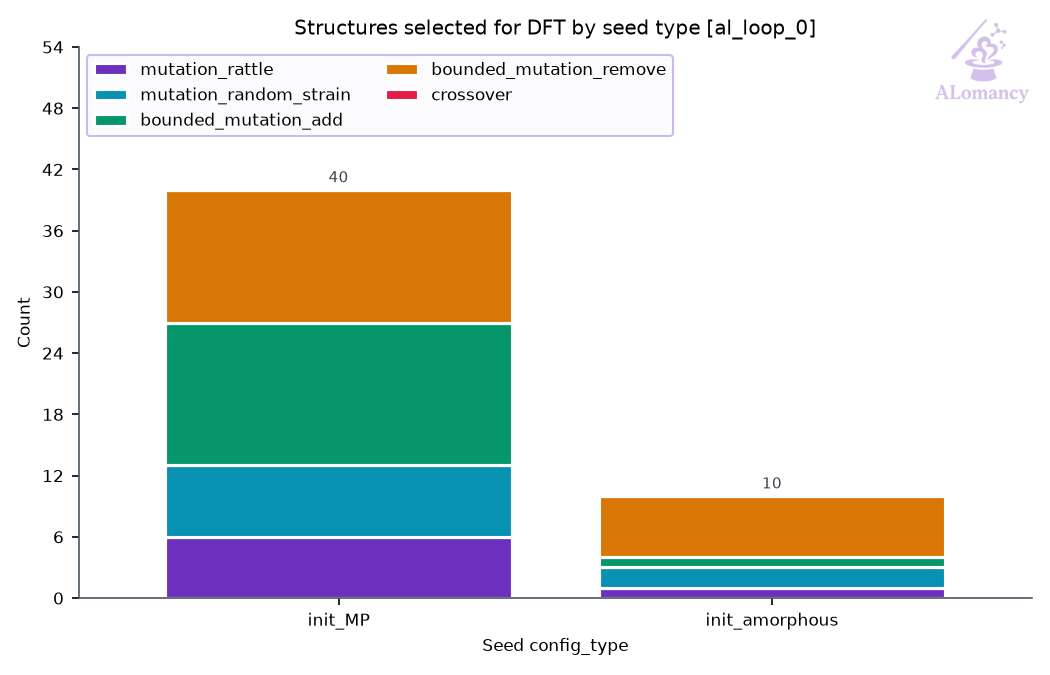
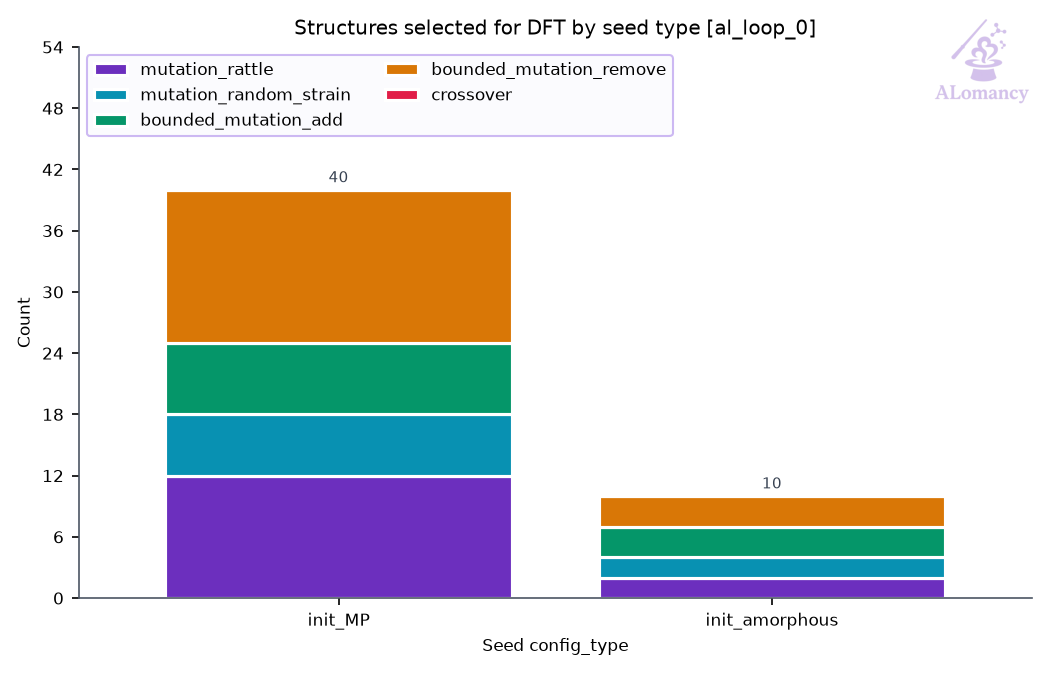
update viper_omat_ezga_committee

Changed region(s): [[0.1524, 0.5911, 0.4876, 0.8089], [0.5486, 0.7778, 0.9143, 0.9022], [0.1524, 0.4667, 0.4876, 0.5289]]

diff --git a/alomancy/viper_omat_ezga_committee/report/report.md b/alomancy/viper_omat_ezga_committee/report/report.md
@@ -1,32 +1,33 @@
 # ALomancy report: al_loop_0
 
-Workflow `committee_uncertainty` · trainer `mace` · generator `ezga` · evaluator `qe` · generated 2026-11-14T09:45:32
+Workflow `committee_uncertainty` · trainer `mace` · generator `ezga` · evaluator `qe` · generated 2026-11-17T08:26:58
 
-**Status:** 💡 2 infos · 3 warning(s) logged
+**Status:** ✖ 2 errors · 💡 1 info · 5 warning(s) logged
 
 ## Headline
 
 | | previous | loop 0 | change |
 |---|---:|---:|---:|
-| Best model test force MAE (eV/Å) | n/a | 0.193 |  |
-| Best model test energy MAE (meV/atom) | n/a | 40.4 |  |
-| Training structures | n/a | 456 |  |
-| Test structures | n/a | 14 |  |
-| New structures this loop | n/a | 48 |  |
-| Warnings / errors logged | n/a | 3 |  |
+| Best model test force MAE (eV/Å) | n/a | 0.0683 |  |
+| Best model test energy MAE (meV/atom) | n/a | 32 |  |
+| Training structures | n/a | 436 |  |
+| Test structures | n/a | 27 |  |
+| New structures this loop | n/a | 47 |  |
+| Warnings / errors logged | n/a | 5 |  |
 
-Best model: fit_1 of 3 (chosen on the `valid` split).
+Best model: fit_2 of 3 (chosen on the `valid` split).
 
 ## Issues & suggestions
 
-- 💡 **queue_dominated**: high_accuracy_evaluation spent 78% of its time (5.6 h) queued. Raise max_num_of_concurrent_jobs in the HPC profile or use a less busy partition.
-- 💡 **overfitting**: The best model's test force MAE (0.193 eV/Å) is 2.1x its training MAE (0.0904 eV/Å). The test set covers configurations training doesn't: keep adding data, or raise general.dataset_kwargs.valid_fraction to select models on held-out data.
+- ✖ **remote_jobs_failed**: 3/57 remote jobs (5%) failed (3) or died (0). Check the job logs (results/alomancy.log has each failure's traceback); jobs killed by the scheduler usually need a longer max_time for that phase, or a partition with more memory.
+- ✖ **dft_partial_failure**: 3/50 structures sent to DFT (6%) came back without a result. Check the DFT output in results/<loop>/high_accuracy_evaluation; raise high_accuracy_evaluation.max_time / max_go_time if jobs timed out.
+- 💡 **queue_dominated**: training_plots spent 99% of its time (12.3 h) queued. Raise max_num_of_concurrent_jobs in the HPC profile or use a less busy partition.
 
 ## Trends
 
 | loop | test F-MAE (eV/Å) | train | new | DFT returned | GO converged | new redundant | warnings |
 |---:|---:|---:|---:|---:|---:|---:|---:|
-| 0 | 0.193 | 456 | 48 | 48/50 | 100% | 0 | 3 |
+| 0 | 0.0683 | 436 | 47 | 47/50 | 100% | 0 | 5 |
 
 ![Best-model MAE per loop](plots/training_al_loop_mae_plot.png)
 
@@ -36,7 +37,7 @@ Best model: fit_1 of 3 (chosen on the `valid` split).
 
 ![Best model parity](plots/best_model_parity.png)
 
-Median relative error: train energy 1.9%, force 7.1%; test energy 0.3%.
+Median relative error: train energy 1.0%, force 6.6%; test energy 0.3%, force 16.6%.
 Energies with |formation energy| < 0.05 eV/atom and atoms with |F| < 0.1 eV/Å are left out; force error is |ΔF|/|F| per atom.
 
 ![Best model percentage error](plots/best_model_percent_error.png)
@@ -46,18 +47,18 @@ Energies with |formation energy| < 0.05 eV/atom and atoms with |F| < 0.1 eV/Å a
 | config_type | Train | Test | Excluded: quality filter | total |
 |---|---:|---:|---:|---:|
 | IsolatedAtom | 1 | 0 | 0 | 1 |
-| high_sd | 86 | 10 | 0 | 96 |
+| high_sd | 77 | 9 | 8 | 94 |
 | init_MP | 7 | 1 | 0 | 8 |
 | init_amorphous | 26 | 3 | 0 | 29 |
-| init_dimer | 99 | 0 | 0 | 99 |
-| init_rattle | 46 | 0 | 228 | 274 |
-| init_stretch_compress | 141 | 0 | 127 | 268 |
-| init_trimer | 50 | 0 | 0 | 50 |
-| **all** | **456** | **14** | **355** | **825** |
+| init_dimer | 79 | 0 | 0 | 79 |
+| init_rattle | 41 | 1 | 232 | 274 |
+| init_stretch_compress | 126 | 13 | 129 | 268 |
+| init_trimer | 79 | 0 | 0 | 79 |
+| **all** | **436** | **27** | **369** | **832** |
 
-- Redundancy removal: 0 structure(s) flagged in total, 0 of this loop's 48 new.
-- DFT geometry-optimisation starting frames: 48 stored this loop, 48 used (the rest excluded by the train/test filters or redundancy removal).
-- Quality filters: high_force: 355, formation_energy: 12.
+- Redundancy removal: 0 structure(s) flagged in total, 0 of this loop's 47 new.
+- DFT geometry-optimisation starting frames: 47 stored this loop, 39 used (the rest excluded by the train/test filters or redundancy removal).
+- Quality filters: high_force: 369, formation_energy: 17.
 
 ![Training set composition](plots/training_set_composition.png)
 
@@ -65,17 +66,17 @@ Energies with |formation energy| < 0.05 eV/atom and atoms with |F| < 0.1 eV/Å a
 
 Redundancy removal flags near-duplicate training structures, so the model isn't trained on many copies of the same geometry. Each structure is described by `char_vec_128`: all of its interatomic distances, sorted and resampled to 128 values (`global_descriptor/atomic_distance_descriptor.make_char_vec`). Two structures count as duplicates when the Euclidean distance between their descriptors is below a tolerance: in database order, each structure still in the training set is kept unless it is within the tolerance of one already kept. The plot sweeps that tolerance and counts how many structures are kept at each value. **We are looking for plateaus** (shaded): ranges where the count doesn't change, so the result doesn't depend on the exact tolerance. The orange line (right axis) is the number of structures removed between consecutive tolerance steps, the gradient of the count: zero on a plateau. The start of the lowest plateau at least `general.redundancy_kwargs.min_plateau_width` of the swept range wide is used (dashed line). Nothing is flagged when no plateau qualifies, or when it would flag more than `max_flagged_fraction` of the structures; `general.redundancy_kwargs.tolerance` sets the tolerance directly.
 
-- This loop: 119 structures probed; the lowest plateau would flag more than 50% of them, so nothing was flagged.
+- This loop: 151 structures probed; the lowest plateau would flag more than 50% of them, so nothing was flagged.
 
 ![Redundancy tolerance probe](plots/redundancy_tolerance_probe.png)
 
 ## DFT
 
-- Structures: 48 returned of 50 submitted (48 relaxed, 0 single point).
-- Geometry optimisation: 48/48 reached the force ceiling (0.05 eV/Å); steps mean 26.3, median 18, max 107 of 200 allowed.
-- Average DFT time per relaxation: 11.5 min (median 7.6, max 43.0; 48 structures).
+- Structures: 47 returned of 50 submitted (47 relaxed, 0 single point).
+- Geometry optimisation: 47/47 reached the force ceiling (0.05 eV/Å); steps mean 25.1, median 15, max 167 of 200 allowed.
+- Average DFT time per relaxation: 16.2 min (median 10.7, max 96.9; 47 structures).
 - Largest per-atom force after DFT: median 0.04, max 0.05 eV/Å.
-- DFT phase wall-clock: 7.2 h (mean queue time 335 min).
+- DFT phase wall-clock: 3.6 h (mean queue time 98 min).
 
 **Structures evaluated with DFT this loop (final geometries)**
 
@@ -83,14 +84,14 @@ Redundancy removal flags near-duplicate training structures, so the model isn't 
 
 ## MLIP training: mace
 
-- Best fit (fit_1) trained for 299 epochs, stage two from epoch 240; weights kept from epoch 269.
+- Best fit (fit_2) trained for 299 epochs, stage two from epoch 240; weights kept from epoch 249.
 
 ![Best model training curve](plots/best_model_training_curve.png)
 
 ## Structure generation: EZGA
 
-- Seeds: 8, generations run: 10 (max_generations 10, population 100)
-- Structures generated: 406, taken as candidates: 406 (newest first, back to generation 0)
+- Seeds: 8, generations run: 11 (max_generations 10, population 100)
+- Structures generated: 497, taken as candidates: 497 (newest first, back to generation 0)
 - Mutations: mutation_rattle, mutation_random_strain, bounded_mutation_add, bounded_mutation_remove
 
 ![Ezga generations](plots/ezga_generations.png)
@@ -105,7 +106,7 @@ Redundancy removal flags near-duplicate training structures, so the model isn't 
 
 ## Selection: committee uncertainty
 
-- 406 candidates scored; 50 selected (12 %; max force std dev ≥ 0.809 eV/Å).
+- 497 candidates scored; 50 selected (10 %; max force std dev ≥ 0.29 eV/Å).
 
 ![Committee force std dev](plots/committee_force_std_dev.png)
 
@@ -115,7 +116,8 @@ Redundancy removal flags near-duplicate training structures, so the model isn't 
 |---|---|---:|
 | `dft_summary` | DFT batch summary | 1 |
 | `ezga_summary` | EZGA summary | 1 |
-| `job_failed` | remote job failed | 2 |
+| `job_failed` | remote job failed | 3 |
 | `jobs_started` | remote jobs started | 4 |
 | `quality_filtered` | train/test quality filter passes | 2 |
 | `redundancy_cap_hit` | redundancy removal skipped (would flag too many) | 1 |
+| `stale_sqlite_sidecars_removed` |  | 1 |
